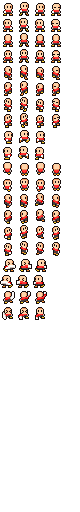
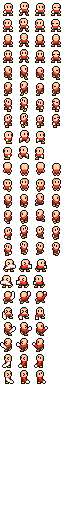
Projectile collide with cow, add red guy diagonal sprites

Changed region(s): [[0.4, 0.625, 0.6, 0.75], [0.2, 0.625, 0.4, 0.75], [0.0, 0.625, 0.2, 0.75]]

diff --git a/src/components/Game/OpponentGuy.js b/src/components/Game/OpponentGuy.js
@@ -51,10 +51,10 @@ export default function OpponentGuy(x, y) {
             punchWest: [17*4, 17*4+2, 'idleWest', 0.5],
             punchNorth: [18*4, 18*4+2, 'idleNorth', 0.5],
             punchSouth: [19*4, 19*4+2, 'idleSouth', 0.5],
-            punchNorthEast: [16*4, 16*4+2, 'idleNorthEast', 0.5],
-            punchNorthWest: [17*4, 17*4+2, 'idleNorthWest', 0.5],
-            punchSouthEast: [18*4, 18*4+2, 'idleSouthEast', 0.5],
-            punchSouthWest: [19*4, 19*4+2, 'idleSouthWest', 0.5],
+            punchNorthEast: [20*4, 20*4+2, 'idleNorthEast', 0.5],
+            punchNorthWest: [21*4, 21*4+2, 'idleNorthWest', 0.5],
+            punchSouthEast: [23*4, 23*4+2, 'idleSouthEast', 0.5],
+            punchSouthWest: [22*4, 22*4+2, 'idleSouthWest', 0.5],
             runningKick: [0, 3, 'idle', 0.25]
         }
     };

diff --git a/src/components/Game/Projectile.js b/src/components/Game/Projectile.js
@@ -18,6 +18,7 @@ export default function Projectile(x, y, direction) {
         switch (object.type) {
             case 'Wall': console.log('Projectile colliding with Wall'); this.destruct(); break;
             case 'Character': if (object.id !== this.owner) this.destruct(); break;
+            case 'Cow': console.log('Projectile colliding with Cow'); this.destruct(); break;
         }
     };
 
